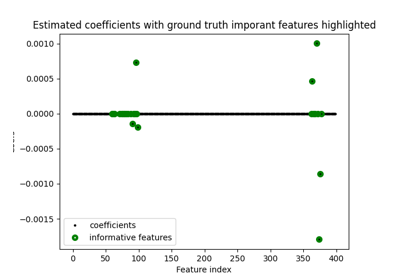
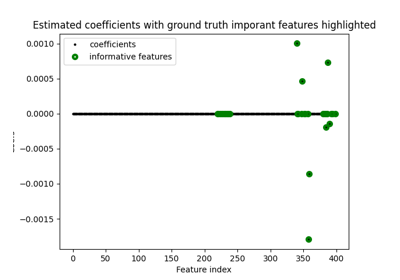
Deploying to gh-pages from  @ 14db937ca17723bd27f4d7b59368d16c78d54d2b 🚀

diff --git a/searchindex.js b/searchindex.js
@@ -1,1 +1,1 @@
-Search.setIndex({docnames:["api","auto_examples/index","auto_examples/plot_classifier","auto_examples/sg_execution_times","contributing","getting_help","index","install","user_guide"],envversion:{"sphinx.domains.c":2,"sphinx.domains.changeset":1,"sphinx.domains.citation":1,"sphinx.domains.cpp":3,"sphinx.domains.index":1,"sphinx.domains.javascript":2,"sphinx.domains.math":2,"sphinx.domains.python":2,"sphinx.domains.rst":2,"sphinx.domains.std":1,"sphinx.ext.intersphinx":1,"sphinx.ext.viewcode":1,sphinx:56},filenames:["api.rst","auto_examples/index.rst","auto_examples/plot_classifier.rst","auto_examples/sg_execution_times.rst","contributing.rst","getting_help.rst","index.rst","install.rst","user_guide.rst"],objects:{"groupyr.datasets":{make_group_classification:[0,1,1,""],make_group_regression:[0,1,1,""]},groupyr:{LogisticSGL:[0,0,1,""],LogisticSGLCV:[0,0,1,""],SGL:[0,0,1,""],SGLCV:[0,0,1,""]}},objnames:{"0":["py","class","Python class"],"1":["py","function","Python function"]},objtypes:{"0":"py:class","1":"py:function"},terms:{"001":0,"100":[0,2],"1000":0,"10618600":0,"108":6,"1080":0,"122":6,"1283339":6,"2003":0,"2011":6,"2012":0,"2013":6,"2020":6,"231":[0,6],"245":[0,6],"260":[2,3],"2825":6,"2830":6,"362":2,"363":2,"366":2,"367":2,"368":2,"370":2,"372":2,"374":2,"376":2,"377":2,"5281":6,"681250":0,"boolean":0,"case":0,"class":0,"default":0,"float":0,"function":0,"import":2,"int":0,"new":[5,7],"public":6,"return":0,"true":[0,2],"while":[0,8],And:6,For:0,The:[0,2,7],These:0,Use:0,Used:0,__init__:0,about:[0,5],accuracy_scor:0,across:0,actual:0,adapt:0,add:0,added:0,after:0,alfr:6,algorithm:0,all:[0,1,5,7],allow:5,along:0,alpha:[0,6],alpha_:0,alpha_max:0,alpha_min:0,alphas_:0,also:[0,4],altern:7,amount:0,ani:[0,5],appli:0,appreci:6,appropri:[0,4],arang:2,arbitrari:0,ariel:6,around:0,arrai:0,ask:5,assign:[0,6],attribut:0,auto_exampl:3,auto_examples_jupyt:1,auto_examples_python:1,automat:0,avail:4,balanc:0,basic:6,becaus:0,befor:[0,5],belong:[0,6],benchmark:0,best:[0,2],beta:6,betti:6,between:[0,6],bia:0,bibtex:6,bioengin:6,biomed:6,black:2,bool:0,borrow:6,both:6,bug:5,built:0,buitnick:6,button:5,calcul:0,call:0,callabl:0,can:[0,5,6,7],canon:0,capabl:0,center:0,character:6,choic:0,chosen:0,chosen_features_:2,citat:6,class_sep:0,classes_:0,classif:0,classifi:0,click:[2,5],clone:7,close:0,cluster:0,code:[1,2,7],coef:[0,2],coef_:[0,2],coeffici:[0,2,6],collabor:[4,6],column:6,com:7,combin:[0,6],compar:2,compat:[0,6],compos:0,composit:6,compris:0,compromis:0,comput:[0,6],constant:0,construct:0,contain:0,context:0,contigu:0,contrast:0,contribut:7,control:6,converg:0,copi:0,copt:6,copy_x:0,cost:0,covari:[0,6],cpu:0,creat:0,credit:4,criterion:0,data:[0,5,6],dataset:2,decis:0,depend:[0,7],descent:0,design:[0,6],detail:[4,6],determin:0,develop:[4,6],deviat:0,differ:0,dimens:0,dimension:[0,6],distribut:0,divid:0,document:0,doi:[0,6],download:[1,2],drawn:0,duplic:0,dure:0,each:0,easier:0,ecml:6,edit:8,effect:0,effective_rank:0,effici:0,elasticnet:0,eleftherio:6,element:0,ell:6,els:0,encod:0,encourag:0,entri:6,eps:[0,2],equal:0,error:0,escienc:6,estim:[2,6],ethic:5,evalu:0,examin:5,exampl:[0,2,7],exce:0,exchang:0,execut:3,expect:0,experi:[0,6],explain:0,face:5,facilit:6,factor:0,fals:0,featur:[0,2,6,7],features_per_group:0,file:3,find:0,fit:[0,2,6],fit_intercept:0,flag:0,flip:6,flip_i:0,fold:0,formula:0,foundat:6,frac:6,fraction:0,friedman:[0,6],from:[0,2,4,6,7],full:2,further:[0,6,7],galleri:[1,2,6,7],garyfallidi:6,gaussian:0,gener:2,giant:0,git:7,github:[5,7],give:[0,6],global:6,going:5,good:0,gordon:6,gradient:0,grant:6,graphic:[0,6],green:2,grid:0,ground:2,group:[1,3],group_length:0,groupyr:[0,2,7],guid:[0,7],guidelin:[4,7],guyon:0,halford:6,happen:0,harder:0,has:0,hasti:[0,6],hat:6,have:0,heavili:6,here:[0,2,4],high:6,highlight:2,hot:0,how:[5,6,7],http:7,hyper:0,hypercub:0,hyperparamet:[0,6],idx:2,ignor:0,imag:6,implement:6,impor:2,includ:[0,7],include_solver_trac:0,independ:0,index:2,indiana:6,indic:[0,2],infer:0,inform:[0,2,5,6,7],initi:0,input:0,instal:[5,6],instanc:0,institut:6,instruct:6,integ:0,intend:[0,6],intercept:0,intercept_:0,interdepend:0,introduc:0,introductori:[1,6],ipynb:2,issu:[5,8],iter:0,its:[6,7],jerom:0,joblib:0,journal:[0,6],jupyt:[1,2],just:0,kfold:0,know:5,known:0,l1_ratio:[0,2],l1_ratio_:0,label:[0,2],lambda:6,languag:6,larger:0,lasso:[1,3],last:0,learn:[0,6],legend:2,len:0,length:[0,6],less:7,librari:6,licens:[4,6],like:[0,7],linear:[0,6],linearli:0,list:0,loc:2,locat:0,logist:[0,1,3],logistic_sgl_path:0,logisticsgl:0,logisticsglcv:[0,2],logo:6,look:[0,6],machin:6,madelon:0,mai:[0,7],make:[0,5],make_blob:0,make_classif:0,make_group_classif:[0,2],make_group_regress:0,make_multilabel_classif:0,make_regress:0,marker:2,mathbf:6,matplotlib:2,matrix:[0,6],max_it:0,maximum:0,mean:[0,4],mec:2,membership:0,method:0,metric:0,mew:2,mfc:2,might:5,mild:0,min_:6,mine:6,minut:2,model:[0,2,6],moor:6,more:0,mse_path_:0,multilabel:0,multipl:0,multipli:0,must:6,n_alpha:[0,2],n_class:[0,2],n_clusters_per_class:0,n_featur:[0,2],n_features_per_group:[0,2],n_fold:0,n_group:[0,2],n_inform:0,n_informative_group:[0,2],n_informative_per_group:[0,2],n_iter_:0,n_job:0,n_l1_ratio:0,n_redund:0,n_redundant_per_group:[0,2],n_repeat:0,n_repeated_per_group:[0,2],n_sampl:[0,2],n_target:0,narayan:6,nation:6,ndarrai:0,need:5,neurosci:6,next:7,nih:6,nine:0,nip:0,noah:0,nois:0,non:[0,2],none:[0,2],norm:0,normal:[0,6],note:0,notebook:[1,2],number:[0,6],numpi:[0,2],object:0,often:5,one:0,onli:0,open:[4,8],oper:5,optim:[0,6],option:0,order:0,other:0,our:[4,5],out:[0,2],output:0,outsid:4,overal:0,overlap:0,overwritten:0,own:8,page:[5,6],parallel_backend:0,paramet:0,partit:0,pass:0,path:0,patient:8,pedregosa:6,penal:[0,6],penalti:[0,6],per:0,pertin:5,pgd:0,pip:7,pkdd:6,place:0,pleas:[0,5,8],plot:2,plot_classifi:[2,3],plt:2,point:0,polytop:0,posit:0,possibl:0,post:5,predefin:6,predict:0,predictor:0,preprocess:0,previou:0,primari:0,print:2,prior:0,problem:[0,6],procedur:5,processor:0,produc:0,project:[4,6],promot:6,proport:0,provid:[0,5],proxim:0,pseudo:0,put:0,pypi:7,pyplot:2,python:[1,2,7],r01eb027585:6,randal:6,random:0,random_st:[0,2],randomli:0,randomst:0,reach:0,recommend:7,redund:0,regress:[0,2,6],regressor:0,regular:[0,6],relat:6,relationship:6,reli:6,remain:0,repeat:0,repositori:[5,7],reproduc:0,requir:7,research:[4,6],result:0,reus:0,richford:7,richi:6,robert:0,rokem:6,root:0,routin:0,run:[0,2,5],same:0,sampl:[0,5],satisfi:6,scale:[0,2],scale_l2_bi:0,scientif:6,scikit:[0,6],score:0,scorer:0,scoring_path_:0,script:2,search:0,second:2,see:[0,4,6,7],seed:0,select:0,send:5,set:[0,6],sgl:0,sgl_path:0,sglcv:0,shape:[0,2],share:5,shift:0,should:0,show:2,shuffl:0,side:0,signal:[1,3],signatur:0,silhouett:6,simon:[0,6],simplifi:0,simul:2,singular:0,size:0,sklearn:0,sloan:6,small:5,softwar:[4,5,6],solut:0,solv:0,solver:[0,6],some:0,sourc:[0,1,2,4,7],spars:[1,3],sparsiti:[0,6],specifi:0,sphinx:[1,2],split:0,splitter:0,spread:0,sqrt:6,squar:0,stabl:7,stack:0,standard:0,standardscal:0,start:0,statist:[0,6],std:0,stop:0,strategi:0,strength:[0,6],string:0,strong:0,studi:5,submatrix:6,subspac:0,subtract:0,suggest:8,sum:0,sum_:6,supervis:6,support:6,suppress:0,suppress_solver_warn:0,sure:5,synthet:0,system:5,target:6,task:0,tbd:6,techniqu:0,templat:6,term:0,test:0,than:0,thei:0,therefor:6,thi:[0,4,5,7,8],three:0,through:6,tibshirani:[0,6],time:2,titl:2,tol:[0,2],toler:0,total:[0,2,3,6],train:0,trevor:0,truth:2,tune:0,type:0,univers:6,unless:0,unrel:0,unshuffl:0,updat:[0,8],usag:6,use:[0,4,6,7],used:0,useful:0,useful_indic:[0,2],useless:0,user:[0,7],uses:0,using:[0,6,7],valu:0,vari:0,variabl:[0,6],variant:0,variou:0,vector:[0,6],verbos:0,version:[0,5],vertic:0,via:0,vol:0,wai:7,warm:0,warm_start:0,warn:0,washington:6,weight:0,welcom:4,well:[5,6],what:5,when:0,where:[0,2,6],whether:0,which:0,whose:0,wise:[0,6],wish:0,within:0,workshop:6,would:[0,6,7],xlabel:2,yield:[0,6],ylabel:2,you:[0,4,5,6,7],your:[5,8],zenodo:6,zero:[0,2],zip:1},titles:["API Reference","General examples","Logistic Sparse Group Lasso for grouped sparse signals","Computation times","Contributing to <em>groupyr</em>","Getting help using <em>groupyr</em>","Groupyr: Sparse Group Lasso in Python","Installation","User guide : contents"],titleterms:{The:6,acknowledg:6,api:[0,6],cite:6,comput:3,construct:8,contribut:4,cross:0,dataset:0,develop:7,document:6,estim:0,exampl:[1,6],gener:[0,1],get:[5,6],group:[0,2,6],groupyr:[4,5,6],guid:[6,8],help:5,instal:7,lasso:[0,2,6],logist:2,python:6,refer:[0,6],releas:7,signal:2,spars:[0,2,6],start:6,time:3,under:8,user:[6,8],using:5,valid:0,version:7}})
+Search.setIndex({docnames:["api","auto_examples/index","auto_examples/plot_classifier","auto_examples/sg_execution_times","contributing","getting_help","index","install","user_guide"],envversion:{"sphinx.domains.c":2,"sphinx.domains.changeset":1,"sphinx.domains.citation":1,"sphinx.domains.cpp":3,"sphinx.domains.index":1,"sphinx.domains.javascript":2,"sphinx.domains.math":2,"sphinx.domains.python":2,"sphinx.domains.rst":2,"sphinx.domains.std":1,"sphinx.ext.intersphinx":1,"sphinx.ext.viewcode":1,sphinx:56},filenames:["api.rst","auto_examples/index.rst","auto_examples/plot_classifier.rst","auto_examples/sg_execution_times.rst","contributing.rst","getting_help.rst","index.rst","install.rst","user_guide.rst"],objects:{"groupyr.datasets":{make_group_classification:[0,1,1,""],make_group_regression:[0,1,1,""]},groupyr:{LogisticSGL:[0,0,1,""],LogisticSGLCV:[0,0,1,""],SGL:[0,0,1,""],SGLCV:[0,0,1,""]}},objnames:{"0":["py","class","Python class"],"1":["py","function","Python function"]},objtypes:{"0":"py:class","1":"py:function"},terms:{"001":0,"100":[0,2],"1000":0,"10618600":0,"108":6,"1080":0,"122":6,"1283339":6,"2003":0,"2011":6,"2012":0,"2013":6,"2020":6,"220":2,"221":2,"224":2,"227":2,"230":2,"231":[0,2,6],"232":2,"235":2,"236":2,"238":2,"245":[0,6],"2825":6,"2830":6,"340":2,"341":2,"342":2,"347":2,"348":2,"352":2,"353":2,"357":2,"358":2,"359":2,"380":2,"383":2,"384":2,"385":2,"386":2,"387":2,"390":2,"392":2,"394":2,"399":2,"5281":6,"681250":0,"708":[2,3],"boolean":0,"case":0,"class":0,"default":0,"float":0,"function":0,"import":2,"int":0,"new":[5,7],"public":6,"return":0,"true":[0,2],"while":[0,8],And:6,For:0,The:[0,2,7],These:0,Use:0,Used:0,__init__:0,about:[0,5],accuracy_scor:0,across:0,actual:0,adapt:0,add:0,added:0,after:0,alfr:6,algorithm:0,all:[0,1,5,7],allow:5,along:0,alpha:[0,6],alpha_:0,alpha_max:0,alpha_min:0,alphas_:0,also:[0,4],altern:7,amount:0,ani:[0,5],appli:0,appreci:6,appropri:[0,4],arang:2,arbitrari:0,ariel:6,around:0,arrai:0,ask:5,assign:[0,6],attribut:0,auto_exampl:3,auto_examples_jupyt:1,auto_examples_python:1,automat:0,avail:4,balanc:0,basic:6,becaus:0,befor:[0,5],belong:[0,6],benchmark:0,best:[0,2],beta:6,betti:6,between:[0,6],bia:0,bibtex:6,bioengin:6,biomed:6,black:2,bool:0,borrow:6,both:6,bug:5,built:0,buitnick:6,button:5,calcul:0,call:0,callabl:0,can:[0,5,6,7],canon:0,capabl:0,center:0,character:6,choic:0,chosen:0,chosen_features_:2,citat:6,class_sep:0,classes_:0,classif:0,classifi:0,click:[2,5],clone:7,close:0,cluster:0,code:[1,2,7],coef:[0,2],coef_:[0,2],coeffici:[0,2,6],collabor:[4,6],column:6,com:7,combin:[0,6],compar:2,compat:[0,6],compos:0,composit:6,compris:0,compromis:0,comput:[0,6],constant:0,construct:0,contain:0,context:0,contigu:0,contrast:0,contribut:7,control:6,converg:0,copi:0,copt:6,copy_x:0,cost:0,covari:[0,6],cpu:0,creat:0,credit:4,criterion:0,data:[0,5,6],dataset:2,decis:0,depend:[0,7],descent:0,design:[0,6],detail:[4,6],determin:0,develop:[4,6],deviat:0,differ:0,dimens:0,dimension:[0,6],distribut:0,divid:0,document:0,doi:[0,6],download:[1,2],drawn:0,duplic:0,dure:0,each:0,easier:0,ecml:6,edit:8,effect:0,effective_rank:0,effici:0,elasticnet:0,eleftherio:6,element:0,ell:6,els:0,encod:0,encourag:0,entri:6,eps:[0,2],equal:0,error:0,escienc:6,estim:[2,6],ethic:5,evalu:0,examin:5,exampl:[0,2,7],exce:0,exchang:0,execut:3,expect:0,experi:[0,6],explain:0,face:5,facilit:6,factor:0,fals:0,featur:[0,2,6,7],features_per_group:0,file:3,find:0,fit:[0,2,6],fit_intercept:0,flag:0,flip:6,flip_i:0,fold:0,formula:0,foundat:6,frac:6,fraction:0,friedman:[0,6],from:[0,2,4,6,7],full:2,further:[0,6,7],galleri:[1,2,6,7],garyfallidi:6,gaussian:0,gener:2,giant:0,git:7,github:[5,7],give:[0,6],global:6,going:5,good:0,gordon:6,gradient:0,grant:6,graphic:[0,6],green:2,grid:0,ground:2,group:[1,3],group_length:0,groupyr:[0,2,7],guid:[0,7],guidelin:[4,7],guyon:0,halford:6,happen:0,harder:0,has:0,hasti:[0,6],hat:6,have:0,heavili:6,here:[0,2,4],high:6,highlight:2,hot:0,how:[5,6,7],http:7,hyper:0,hypercub:0,hyperparamet:[0,6],idx:2,ignor:0,imag:6,implement:6,impor:2,includ:[0,7],include_solver_trac:0,independ:0,index:2,indiana:6,indic:[0,2],infer:0,inform:[0,2,5,6,7],initi:0,input:0,instal:[5,6],instanc:0,institut:6,instruct:6,integ:0,intend:[0,6],intercept:0,intercept_:0,interdepend:0,introduc:0,introductori:[1,6],ipynb:2,issu:[5,8],iter:0,its:[6,7],jerom:0,joblib:0,journal:[0,6],jupyt:[1,2],just:0,kfold:0,know:5,known:0,l1_ratio:[0,2],l1_ratio_:0,label:[0,2],lambda:6,languag:6,larger:0,lasso:[1,3],last:0,learn:[0,6],legend:2,len:0,length:[0,6],less:7,librari:6,licens:[4,6],like:[0,7],linear:[0,6],linearli:0,list:0,loc:2,locat:0,logist:[0,1,3],logistic_sgl_path:0,logisticsgl:0,logisticsglcv:[0,2],logo:6,look:[0,6],machin:6,madelon:0,mai:[0,7],make:[0,5],make_blob:0,make_classif:0,make_group_classif:[0,2],make_group_regress:0,make_multilabel_classif:0,make_regress:0,marker:2,mathbf:6,matplotlib:2,matrix:[0,6],max_it:0,maximum:0,mean:[0,4],mec:2,membership:0,method:0,metric:0,mew:2,mfc:2,might:5,mild:0,min_:6,mine:6,minut:2,model:[0,2,6],moor:6,more:0,mse_path_:0,multilabel:0,multipl:0,multipli:0,must:6,n_alpha:[0,2],n_class:[0,2],n_clusters_per_class:0,n_featur:[0,2],n_features_per_group:[0,2],n_fold:0,n_group:[0,2],n_inform:0,n_informative_group:[0,2],n_informative_per_group:[0,2],n_iter_:0,n_job:0,n_l1_ratio:0,n_redund:0,n_redundant_per_group:[0,2],n_repeat:0,n_repeated_per_group:[0,2],n_sampl:[0,2],n_target:0,narayan:6,nation:6,ndarrai:0,need:5,neurosci:6,next:7,nih:6,nine:0,nip:0,noah:0,nois:0,non:[0,2],none:[0,2],norm:0,normal:[0,6],note:0,notebook:[1,2],number:[0,6],numpi:[0,2],object:0,often:5,one:0,onli:0,open:[4,8],oper:5,optim:[0,6],option:0,order:0,other:0,our:[4,5],out:[0,2],output:0,outsid:4,overal:0,overlap:0,overwritten:0,own:8,page:[5,6],parallel_backend:0,paramet:0,partit:0,pass:0,path:0,patient:8,pedregosa:6,penal:[0,6],penalti:[0,6],per:0,pertin:5,pgd:0,pip:7,pkdd:6,place:0,pleas:[0,5,8],plot:2,plot_classifi:[2,3],plt:2,point:0,polytop:0,posit:0,possibl:0,post:5,predefin:6,predict:0,predictor:0,preprocess:0,previou:0,primari:0,print:2,prior:0,problem:[0,6],procedur:5,processor:0,produc:0,project:[4,6],promot:6,proport:0,provid:[0,5],proxim:0,pseudo:0,put:0,pypi:7,pyplot:2,python:[1,2,7],r01eb027585:6,randal:6,random:0,random_st:[0,2],randomli:0,randomst:0,reach:0,recommend:7,redund:0,regress:[0,2,6],regressor:0,regular:[0,6],relat:6,relationship:6,reli:6,remain:0,repeat:0,repositori:[5,7],reproduc:0,requir:7,research:[4,6],result:0,reus:0,richford:7,richi:6,robert:0,rokem:6,root:0,routin:0,run:[0,2,5],same:0,sampl:[0,5],satisfi:6,scale:[0,2],scale_l2_bi:0,scientif:6,scikit:[0,6],score:0,scorer:0,scoring_path_:0,script:2,search:0,second:2,see:[0,4,6,7],seed:0,select:0,send:5,set:[0,6],sgl:0,sgl_path:0,sglcv:0,shape:[0,2],share:5,shift:0,should:0,show:2,shuffl:0,side:0,signal:[1,3],signatur:0,silhouett:6,simon:[0,6],simplifi:0,simul:2,singular:0,size:0,sklearn:0,sloan:6,small:5,softwar:[4,5,6],solut:0,solv:0,solver:[0,6],some:0,sourc:[0,1,2,4,7],spars:[1,3],sparsiti:[0,6],specifi:0,sphinx:[1,2],split:0,splitter:0,spread:0,sqrt:6,squar:0,stabl:7,stack:0,standard:0,standardscal:0,start:0,statist:[0,6],std:0,stop:0,strategi:0,strength:[0,6],string:0,strong:0,studi:5,submatrix:6,subspac:0,subtract:0,suggest:8,sum:0,sum_:6,supervis:6,support:6,suppress:0,suppress_solver_warn:0,sure:5,synthet:0,system:5,target:6,task:0,tbd:6,techniqu:0,templat:6,term:0,test:0,than:0,thei:0,therefor:6,thi:[0,4,5,7,8],three:0,through:6,tibshirani:[0,6],time:2,titl:2,tol:[0,2],toler:0,total:[0,2,3,6],train:0,trevor:0,truth:2,tune:0,type:0,univers:6,unless:0,unrel:0,unshuffl:0,updat:[0,8],usag:6,use:[0,4,6,7],used:0,useful:0,useful_indic:[0,2],useless:0,user:[0,7],uses:0,using:[0,6,7],valu:0,vari:0,variabl:[0,6],variant:0,variou:0,vector:[0,6],verbos:0,version:[0,5],vertic:0,via:0,vol:0,wai:7,warm:0,warm_start:0,warn:0,washington:6,weight:0,welcom:4,well:[5,6],what:5,when:0,where:[0,2,6],whether:0,which:0,whose:0,wise:[0,6],wish:0,within:0,workshop:6,would:[0,6,7],xlabel:2,yield:[0,6],ylabel:2,you:[0,4,5,6,7],your:[5,8],zenodo:6,zero:[0,2],zip:1},titles:["API Reference","General examples","Logistic Sparse Group Lasso for grouped sparse signals","Computation times","Contributing to <em>groupyr</em>","Getting help using <em>groupyr</em>","Groupyr: Sparse Group Lasso in Python","Installation","User guide : contents"],titleterms:{The:6,acknowledg:6,api:[0,6],cite:6,comput:3,construct:8,contribut:4,cross:0,dataset:0,develop:7,document:6,estim:0,exampl:[1,6],gener:[0,1],get:[5,6],group:[0,2,6],groupyr:[4,5,6],guid:[6,8],help:5,instal:7,lasso:[0,2,6],logist:2,python:6,refer:[0,6],releas:7,signal:2,spars:[0,2,6],start:6,time:3,under:8,user:[6,8],using:5,valid:0,version:7}})

diff --git a/auto_examples/plot_classifier.html b/auto_examples/plot_classifier.html
@@ -185,10 +185,10 @@ ground-truth.</p>
 <img alt="Estimated coefficients with ground truth imporant features highlighted" class="sphx-glr-single-img" src="../_images/sphx_glr_plot_classifier_001.png" />
 <p class="sphx-glr-script-out">Out:</p>
 <div class="sphx-glr-script-out highlight-none notranslate"><div class="highlight"><pre><span></span>Indices of ground-truth informative features:
-[ 60  61  62  63  71  75  76  77  78  79  81  84  88  91  92  93  94  96
-  97  99 362 363 366 367 368 370 372 374 376 377]
+[220 221 224 227 230 231 232 235 236 238 340 341 342 347 348 352 353 357
+ 358 359 380 383 384 385 386 387 390 392 394 399]
 Indices of non-zero estimated coefs:
-[ 91  96  99 363 368 370 374 376]
+[340 348 353 358 359 384 387 390]
 </pre></div>
 </div>
 <div class="line-block">
@@ -258,7 +258,7 @@ Indices of non-zero estimated coefs:
 <span class="nb">print</span><span class="p">(</span><a href="../api.html#groupyr.LogisticSGLCV" title="groupyr.LogisticSGLCV" class="sphx-glr-backref-module-groupyr sphx-glr-backref-type-py-class sphx-glr-backref-instance"><span class="n">model</span></a><span class="o">.</span><span class="n">chosen_features_</span><span class="p">)</span>
 </pre></div>
 </div>
-<p class="sphx-glr-timing"><strong>Total running time of the script:</strong> ( 2 minutes  0.260 seconds)</p>
+<p class="sphx-glr-timing"><strong>Total running time of the script:</strong> ( 2 minutes  26.708 seconds)</p>
 <div class="sphx-glr-footer class sphx-glr-footer-example docutils container" id="sphx-glr-download-auto-examples-plot-classifier-py">
 <div class="sphx-glr-download sphx-glr-download-python docutils container">
 <p><a class="reference download internal" download="" href="../_downloads/084669b45b226af6f637ab8457c8c5aa/plot_classifier.py"><code class="xref download docutils literal notranslate"><span class="pre">Download</span> <span class="pre">Python</span> <span class="pre">source</span> <span class="pre">code:</span> <span class="pre">plot_classifier.py</span></code></a></p>

diff --git a/auto_examples/sg_execution_times.html b/auto_examples/sg_execution_times.html
@@ -168,7 +168,7 @@
             
   <div class="section" id="computation-times">
 <span id="sphx-glr-auto-examples-sg-execution-times"></span><h1>Computation times<a class="headerlink" href="#computation-times" title="Permalink to this headline">¶</a></h1>
-<p><strong>02:00.260</strong> total execution time for <strong>auto_examples</strong> files:</p>
+<p><strong>02:26.708</strong> total execution time for <strong>auto_examples</strong> files:</p>
 <table class="docutils align-default">
 <colgroup>
 <col style="width: 80%" />
@@ -177,7 +177,7 @@
 </colgroup>
 <tbody>
 <tr class="row-odd"><td><p><a class="reference internal" href="plot_classifier.html#sphx-glr-auto-examples-plot-classifier-py"><span class="std std-ref">Logistic Sparse Group Lasso for grouped sparse signals</span></a> (<code class="docutils literal notranslate"><span class="pre">plot_classifier.py</span></code>)</p></td>
-<td><p>02:00.260</p></td>
+<td><p>02:26.708</p></td>
 <td><p>0.0 MB</p></td>
 </tr>
 </tbody>
